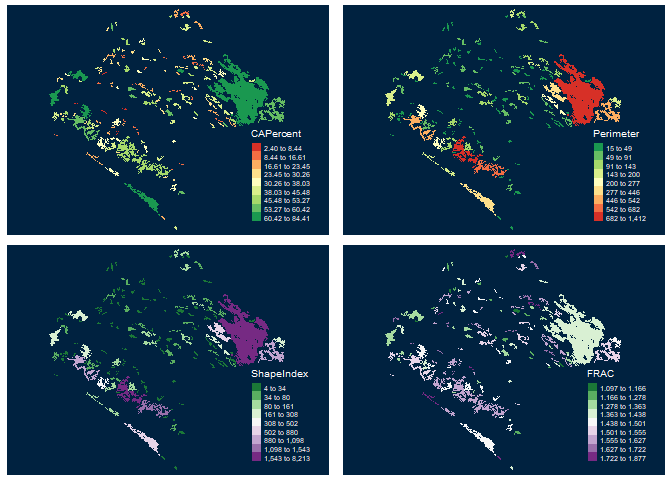
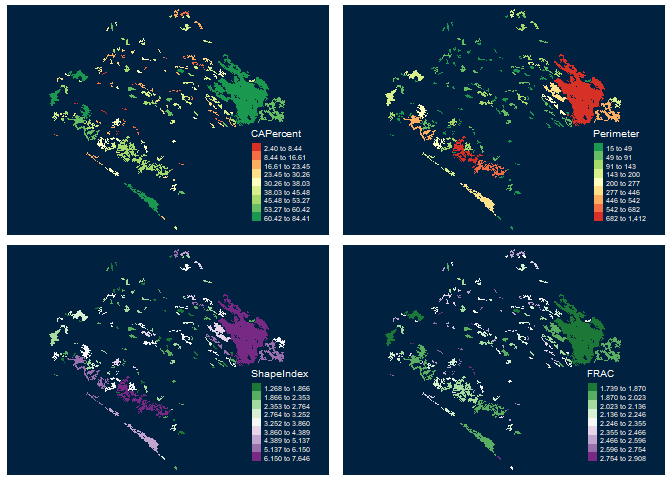
update

diff --git a/README.md b/README.md
@@ -13,19 +13,19 @@ experimental](https://img.shields.io/badge/lifecycle-experimental-orange.svg)](h
 
 ## NEWS
 
-- Thank you for using Makurhini. **We have a new version Makurhini 3.0!**
-- An update was made in the estimation of short distances between
-  nodes, which can improve the processing of the functions that
-  estimate connectivity indices.
-- Two new functions have been added: MK_dPCIIC_links and
-  MK_Focal_nodes. The first one is used to estimate the link
-  importance for conservation and restoration. The second estimates
-  the focal Integral Index of Connectivity (IIC~f~) or the focal
-  Probability of Connectivity (PC~f~) under one or more distance
-  thresholds. Furthermore, this function estimates the composite
-  connectivity index (CCI~f~}; for further details, please see
-  Latorre-Cárdenas et al., 2023.
-  <https://doi.org/10.3390/land12030631>).
+- Thank you for using Makurhini. **We have a new version Makurhini
+  3.0!**
+- An update was made in the estimation of short distances between nodes,
+  which can improve the processing of the functions that estimate
+  connectivity indices.
+- Two new functions have been added: MK_dPCIIC_links and MK_Focal_nodes.
+  The first one is used to estimate the link importance for conservation
+  and restoration. The second estimates the focal Integral Index of
+  Connectivity (IIC<sub>f</sub>) or the focal Probability of
+  Connectivity (PC<sub>f</sub>) under one or more distance thresholds.
+  Furthermore, this function estimates the composite connectivity index
+  (CCI<sub>f</sub>; for further details, please see Latorre-Cárdenas et
+  al., 2023. <https://doi.org/10.3390/land12030631>).
 
 ## Overview
 
@@ -93,7 +93,7 @@ from envvar GITHUB_PAT Error: Failed to install 'unknown package' from
 GitHub: HTTP error 401. Bad credentials
 ```
 
-Then you can try the following:
+Then you can **try the following**:
 
 ``` r
 Sys.getenv("GITHUB_PAT")
@@ -280,9 +280,9 @@ connectivity metrics (ECA) in a regular grid. It uses the
 <span style="font-style: italic">MK_dPCIIC_links </span>
 </td>
 <td style="text-align:left;">
-Estimate the link importance for conservation and restoration. 
-It calculates the contribution of each individual link to maintain
-(mode: link removal) or improve (mode: link change) the overall connectivity.
+Estimate the link importance for conservation and restoration. It
+calculates the contribution of each individual link to maintain (mode:
+link removal) or improve (mode: link change) the overall connectivity.
 </td>
 </tr>
 <tr>
@@ -290,9 +290,9 @@ It calculates the contribution of each individual link to maintain
 <span style="font-style: italic">MK_Focal_nodes </span>
 </td>
 <td style="text-align:left;">
-Estimate the focal Integral Index of Connectivity or the focal 
-Probability of Connectivity  and the Composite Connectivity Index 
-under one or more distance thresholds.
+Estimate the focal Integral Index of Connectivity or the focal
+Probability of Connectivity and the Composite Connectivity Index under
+one or more distance thresholds.
 </td>
 </tr>
 <tr>
@@ -403,8 +403,14 @@ Example with 142 old-growth vegetation fragments in southeast Mexico
 data("vegetation_patches", package = "Makurhini")
 nrow(vegetation_patches) # Number of patches
 #> [1] 142
+```
+
+``` r
 class(vegetation_patches)[1]
 #> [1] "sf"
+```
+
+``` r
 #[1] "sf"
 
 IIC <- MK_dPCIIC(nodes = vegetation_patches, attribute = NULL,
@@ -482,12 +488,12 @@ head(centrality_test)
 #> # A tibble: 6 × 8
 #>      id degree    eigen close   BWC cluster modules                     geometry
 #>   <int>  <dbl>    <dbl> <dbl> <dbl>   <dbl>   <dbl>                <POLYGON [m]>
-#> 1     1      0 0          NaN     0       1       1 ((3676911 589967.3, 3676931…
-#> 2     2      1 4.54e-17     1     0       2       2 ((3558044 696202.5, 3557972…
-#> 3     3      1 9.08e-17     1     0       3       3 ((3569169 687776.4, 3569146…
-#> 4     4      1 6.81e-17     1     0       2       2 ((3547317 685713.2, 3547363…
-#> 5     5      1 6.81e-17     1     0       3       3 ((3567471 684357.4, 3567380…
-#> 6     6      0 0          NaN     0       4       4 ((3590569 672451.7, 3590090…
+#> 1     1      0 2.27e-17   NaN     0       1       1 ((3676911 589967.3, 3676931…
+#> 2     2      1 3.63e-16     1     0       2       2 ((3558044 696202.5, 3557972…
+#> 3     3      1 3.86e-16     1     0       3       3 ((3569169 687776.4, 3569146…
+#> 4     4      1 3.40e-16     1     0       2       2 ((3547317 685713.2, 3547363…
+#> 5     5      1 3.40e-16     1     0       3       3 ((3567471 684357.4, 3567380…
+#> 6     6      0 2.27e-17   NaN     0       4       4 ((3590569 672451.7, 3590090…
 ```
 
 Examples:
@@ -542,9 +548,15 @@ Fragmentation_test <- MK_Fragmentation(patches = vegetation_patches, edge_distan
 ``` r
 class(Fragmentation_test)
 #> [1] "list"
+```
+
+``` r
 names(Fragmentation_test)
 #> [1] "Summary landscape metrics (Viewer Panel)"
 #> [2] "Patch statistics shapefile"
+```
+
+``` r
 Fragmentation_test$`Summary landscape metrics (Viewer Panel)`
 ```
 
@@ -618,6 +630,14 @@ Edge density
 </tr>
 <tr>
 <td style="text-align:left;">
+Patch density
+</td>
+<td style="text-align:center;">
+1.1101
+</td>
+</tr>
+<tr>
+<td style="text-align:left;">
 Total Core Area (km2)
 </td>
 <td style="text-align:center;">
@@ -637,7 +657,7 @@ Cority
 Shape Index (mean)
 </td>
 <td style="text-align:center;">
-138.4898
+2.7918
 </td>
 </tr>
 <tr>
@@ -645,7 +665,7 @@ Shape Index (mean)
 FRAC (mean)
 </td>
 <td style="text-align:center;">
-1.4680
+2.3154
 </td>
 </tr>
 <tr>
@@ -653,7 +673,7 @@ FRAC (mean)
 MESH (km2)
 </td>
 <td style="text-align:center;">
-1543.1460
+1543.1463
 </td>
 </tr>
 </tbody>
@@ -672,19 +692,19 @@ head(Fragmentation_test[[2]])
 #> Bounding box:  xmin: 3542152 ymin: 498183.1 xmax: 3711426 ymax: 696540.5
 #> Projected CRS: +proj=lcc +lat_1=17.5 +lat_2=29.5 +lat_0=12 +lon_0=-102 +x_0=2500000 +y_0=0 +datum=WGS84 +units=m +no_defs
 #>   id      Area        CA CAPercent Perimeter EdgePercent   PARA ShapeIndex
-#> 1  1 4195.5691 3541.3806   84.4076  1412.046     15.5924 2.9713  8212.7666
-#> 2  2   60.2227   11.9415   19.8289   167.982     80.1711 0.3585   117.0545
-#> 3  3   48.8665    6.2099   12.7079   127.049     87.2921 0.3846    79.7484
-#> 4  4   15.1875    7.4210   48.8626    18.536     51.1374 0.8194     6.4864
-#> 5  5   33.2716   13.0877   39.3360    55.038     60.6640 0.6045    28.5066
-#> 6  6   53.1344   11.3564   21.3730   111.123     78.6270 0.4782    72.7339
+#> 1  1 4195.5691 3541.3806   84.4076  1412.046     15.5924 2.9713     6.1496
+#> 2  2   60.2227   11.9415   19.8289   167.982     80.1711 0.3585     6.1063
+#> 3  3   48.8665    6.2099   12.7079   127.049     87.2921 0.3846     5.1270
+#> 4  4   15.1875    7.4210   48.8626    18.536     51.1374 0.8194     1.3417
+#> 5  5   33.2716   13.0877   39.3360    55.038     60.6640 0.6045     2.6917
+#> 6  6   53.1344   11.3564   21.3730   111.123     78.6270 0.4782     4.3004
 #>     FRAC                       geometry
-#> 1 1.4065 POLYGON ((3676911 589967.3,...
-#> 2 1.8241 POLYGON ((3558044 696202.5,...
-#> 3 1.7785 POLYGON ((3569169 687776.4,...
-#> 4 1.1273 POLYGON ((3547317 685713.2,...
-#> 5 1.4961 POLYGON ((3567471 684357.4,...
-#> 6 1.6735 POLYGON ((3590569 672451.7,...
+#> 1 1.7389 POLYGON ((3676911 589967.3,...
+#> 2 2.5006 POLYGON ((3558044 696202.5,...
+#> 3 2.4914 POLYGON ((3569169 687776.4,...
+#> 4 2.1465 POLYGON ((3547317 685713.2,...
+#> 5 2.2872 POLYGON ((3567471 684357.4,...
+#> 6 2.3714 POLYGON ((3590569 672451.7,...
 ```
 
 <img src="man/figures/README-unnamed-chunk-22-1.png" width="100%" />
@@ -700,10 +720,10 @@ core area percentage and edge percentage (% core area + % edge = 100%).
     #>   Edge.distance      Type Percentage
     #> 1           100 Core Area   83.50499
     #> 2           100      Edge   16.49501
-    #> 3           200 Core Area   68.18516
-    #> 4           200      Edge   31.81484
-    #> 5           300 Core Area   54.77231
-    #> 6           300      Edge   45.22769
+    #> 3           200 Core Area   68.18515
+    #> 4           200      Edge   31.81485
+    #> 5           300 Core Area   54.77234
+    #> 6           300      Edge   45.22766
 
 <img src="man/figures/README-unnamed-chunk-24-1.png" width="60%" />
 
